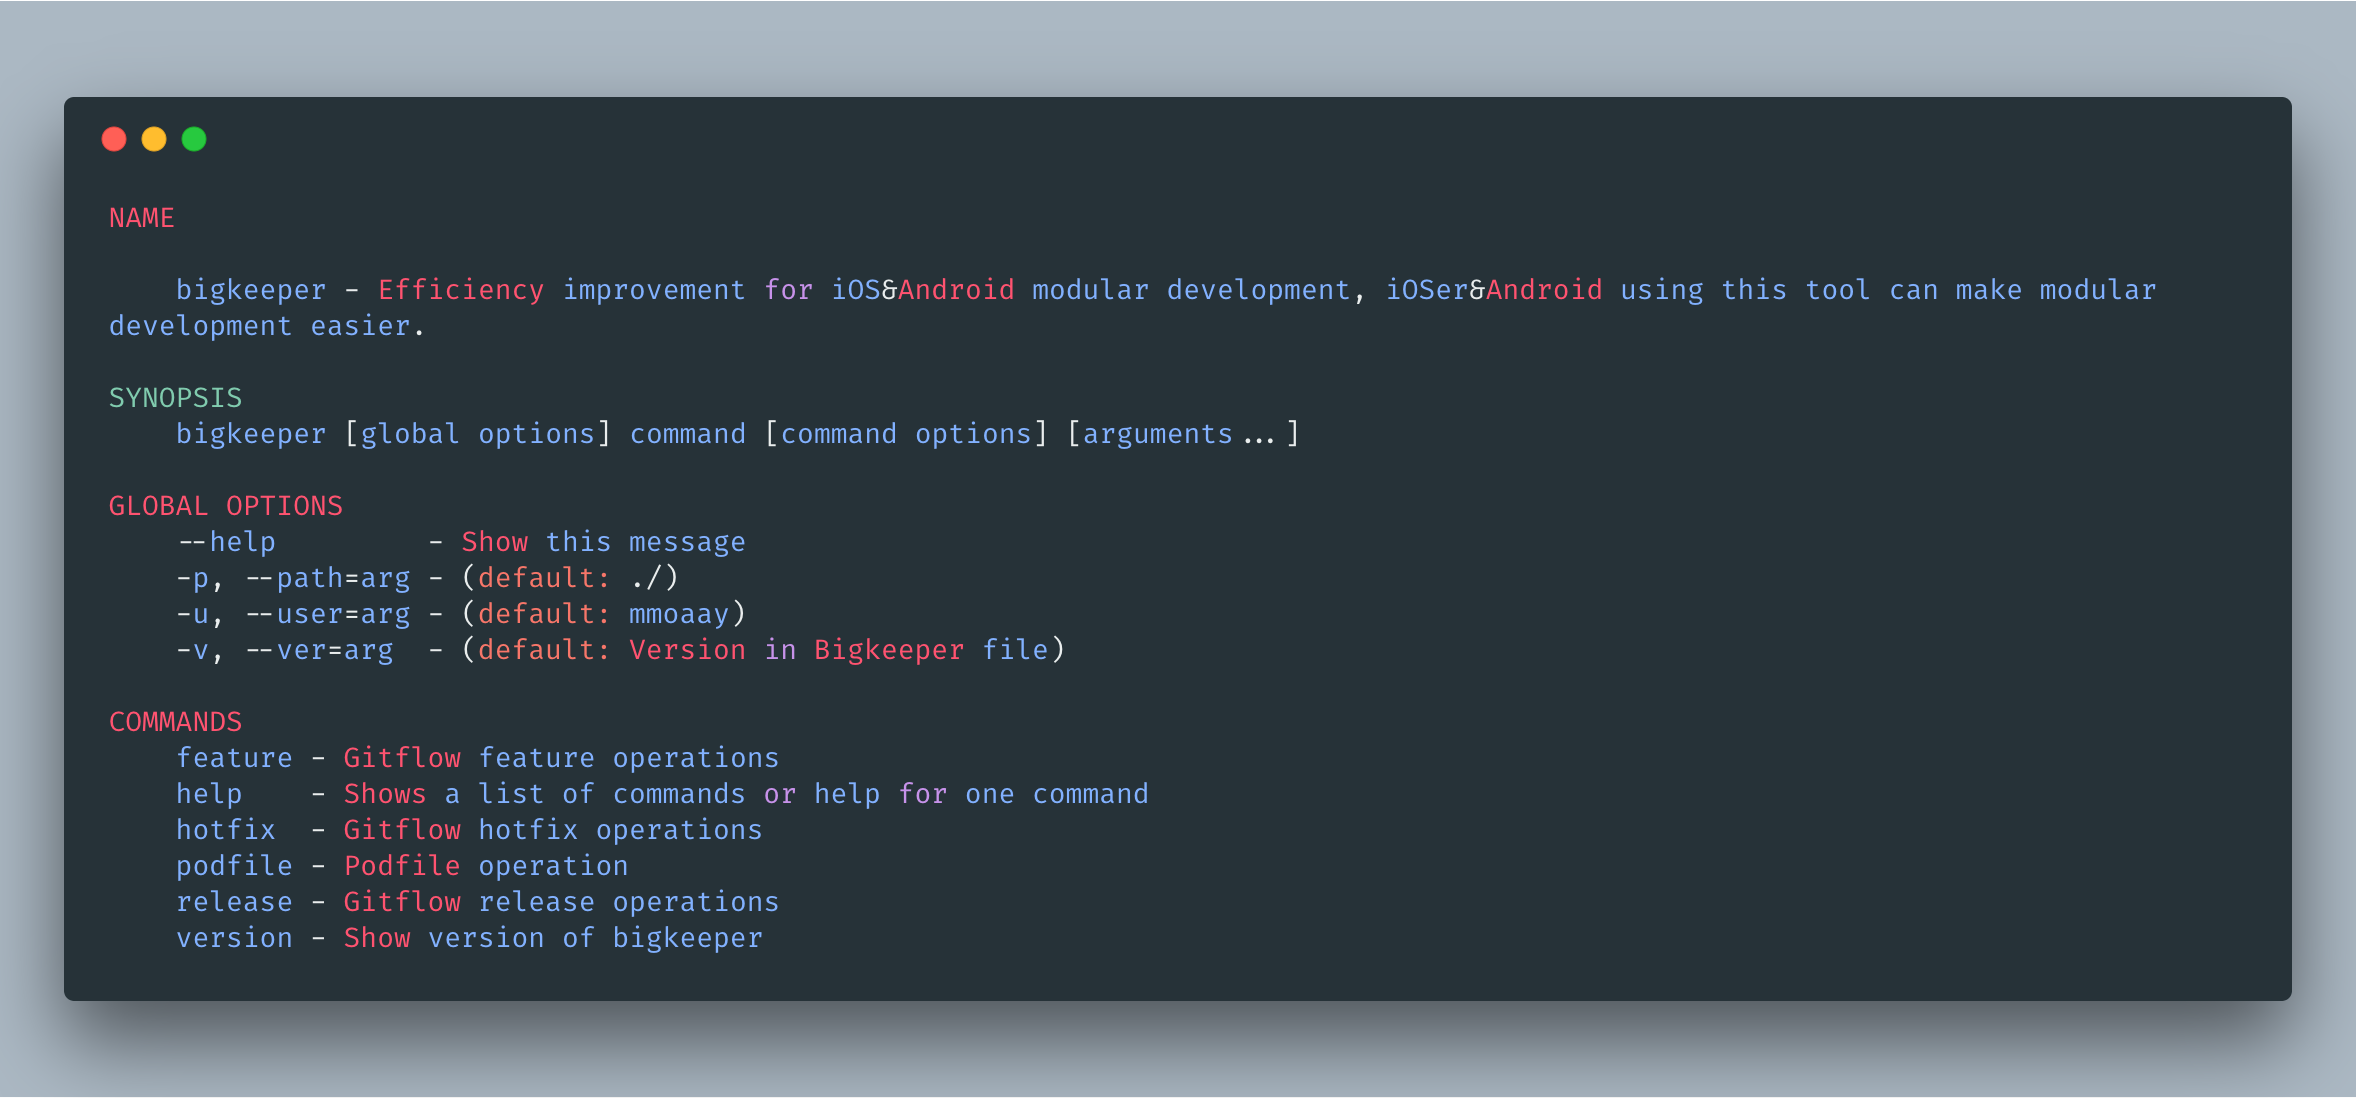
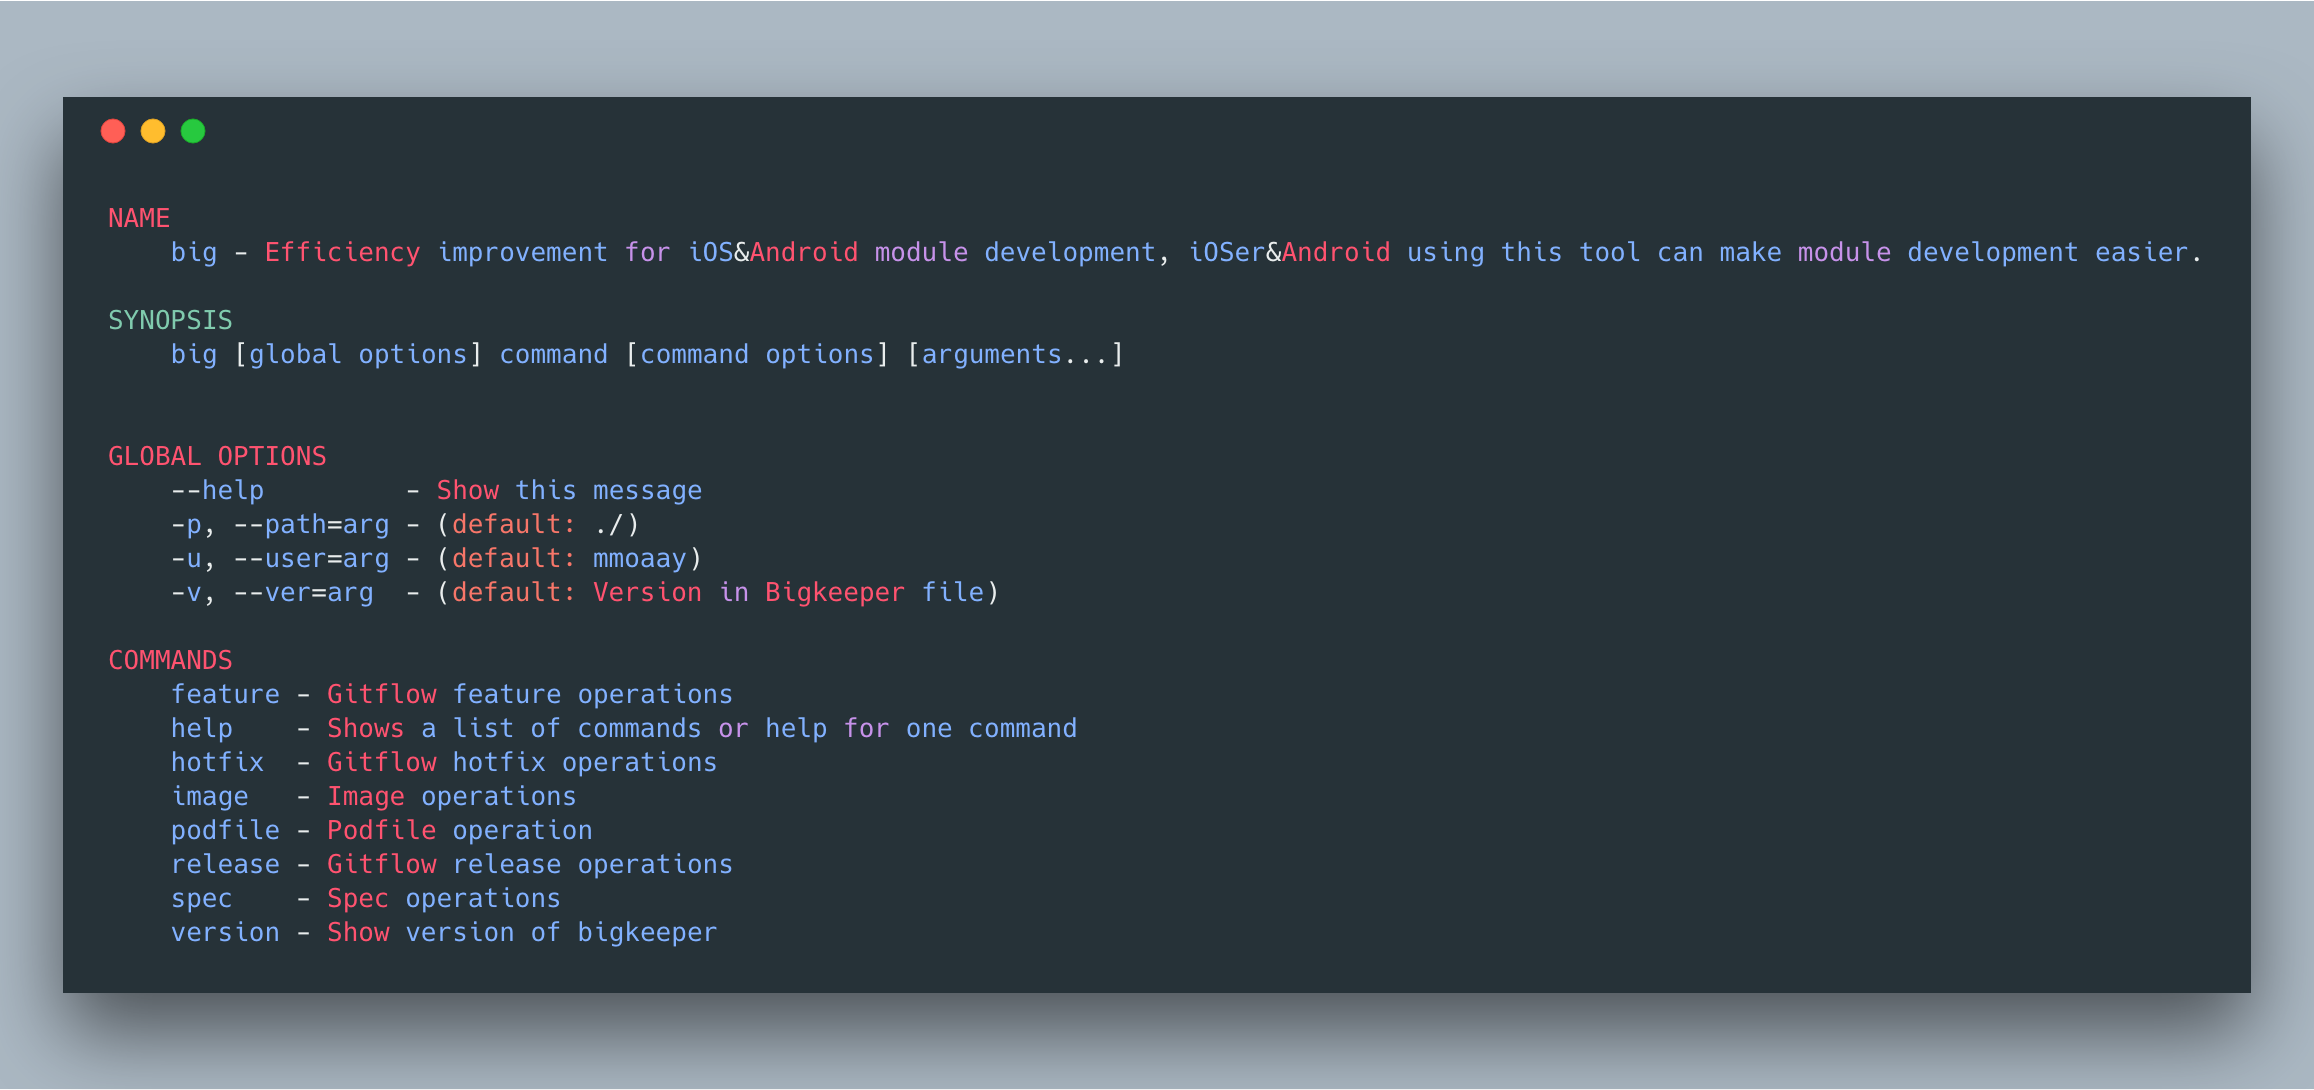
update readme

Changed region(s): [[0.0311, 0.1872, 0.9334, 0.8734], [0.0311, 0.0936, 0.0933, 0.156]]

diff --git a/lib/big_keeper/command/spec/analyze.rb b/lib/big_keeper/command/spec/analyze.rb
@@ -10,15 +10,15 @@ module BigKeeper
       Logger.error("parameter conflict: [--all] | [module_names]")
       return
     end
-    puts "start spec analyze..."
-    puts Time.now.to_s
+    Logger.highlight('Start spec analyze...')
+    Logger.default(Time.now.to_s)
 
     # Parse Bigkeeper file
     # BigkeeperParser.parse("#{path}/Bigkeeper")
     # module_names = BigkeeperParser.module_names
 
     # find modules
-    puts "get all modules..."
+    Logger.highlight('Get all modules...')
     module_names = []
     pod_path = path+"/Pods/"
     dir = Dir.open(pod_path)
@@ -28,15 +28,10 @@ module BigKeeper
       end
     end
 
-    is_legal = true
     for input_moudle_name in find_module_names do
       if !module_names.include?(input_moudle_name)
-        is_legal = false
         Logger.error("["+input_moudle_name+"] not exist.")
       end
-    end
-    if !is_legal
-      return
     end
 
     # setup modules
@@ -54,19 +49,21 @@ module BigKeeper
     end
     # analyze modules spec
 
-    puts "analyze modules "+Time.now.to_s
+    Logger.highlight('Analyze modules...')
+    Logger.default(Time.now.to_s)
     file_index = 0
     for library in module_list do
       if is_all || find_module_names.include?(library.name)
-        puts "analyzing "+library.name
+        Logger.default('Analyzing ' + library.name)
         file_index = file_index + library.file_list.size
         library.spec_dependece_library(module_keyword_map.clone)#(Hash.new(module_keyword_map)).to_hash)
         progress = (file_index*100.0)/file_count
         progress = format("%.02f", progress).to_f
-        puts "progress >>>> "+String(progress)+"% ["+library.name+" done] "
+        Logger.default('progress >>>> ' + String(progress) + '% [' + library.name + ' done] ')
       end
     end
-    puts "analyze complete "+Time.now.to_s
+    Logger.highlight('Analyze complete.')
+    Logger.default(Time.now.to_s)
 
     # log spec info
     for library in module_list do

diff --git a/lib/big_keeper/command/spec.rb b/lib/big_keeper/command/spec.rb
@@ -1,4 +1,5 @@
 require 'big_keeper/command/spec/analyze'
+require 'big_keeper/command/spec/list'
 require 'big_keeper/command/spec/add'
 require 'big_keeper/command/spec/delete'
 require 'big_keeper/command/spec/search'
@@ -6,10 +7,11 @@ require 'big_keeper/command/spec/search'
 module BigKeeper
 
   def self.spec_command
-    desc 'spec command'
+    desc 'Spec operations'
 
     command :spec do |spec|
       spec.switch [:a,:all]
+      spec.desc 'Analyze spec dependency infomation.'
       spec.command :analyze do |analyze|
         analyze.action do |global_options, options, args|
           path = File.expand_path(global_options[:path])
@@ -18,16 +20,33 @@ module BigKeeper
           spec_analyze(path, is_all, module_names)
         end
       end
+
+      spec.desc 'List all the specs.'
+      spec.command :list do | list |
+        list.action do |global_options, options, args|
+          path = File.expand_path(global_options[:path])
+          version = global_options[:ver]
+          user = global_options[:user].gsub(/[^0-9A-Za-z]/, '').downcase
+
+          spec_list(path, user, options)
+        end
+      end
+
+      spec.desc 'Add a spec (Coming soon).'
       spec.command :add do |add|
         add.action do
           spec_add()
         end
       end
+
+      spec.desc 'Delete a spec (Coming soon).'
       spec.command :delete do |delete|
         delete.action do
           spec_delete()
         end
       end
+
+      spec.desc 'Search a spec with name (Coming soon).'
       spec.command :search do |search|
         search.action do
           spec_search()

diff --git a/lib/big_keeper/command/image.rb b/lib/big_keeper/command/image.rb
@@ -1,26 +1,24 @@
 require 'big_resources/util/image/name_analyze_util'
 
 module BigKeeper
-
   def self.image_command
-
-    desc 'Image operation'
+    desc 'Image operations'
     command :image do | c |
       c.desc "Detect duplicate name images."
-        c.command :name do | name |
-          name.action do | global_options, options, args |
-            path = File.expand_path(global_options[:path])
-            BigResources::ImageAnalyzeUtil.get_duplicate_name_file_with_type(path, BigResources::PNG)
-          end
+      c.command :name do | name |
+        name.action do | global_options, options, args |
+          path = File.expand_path(global_options[:path])
+          BigResources::ImageAnalyzeUtil.get_duplicate_name_file_with_type(path, BigResources::PNG)
         end
+      end
 
-        c.desc "Detect duplicate content images."
-        c.command :content do | content |
-          content.action do | global_options, options, args |
-            path = File.expand_path(global_options[:path])
-            BigResources::ImageAnalyzeUtil.get_duplicate_content_file_with_type(path, BigResources::PNG)
-          end
+      c.desc "Detect duplicate content images."
+      c.command :content do | content |
+        content.action do | global_options, options, args |
+          path = File.expand_path(global_options[:path])
+          BigResources::ImageAnalyzeUtil.get_duplicate_content_file_with_type(path, BigResources::PNG)
         end
+      end
     end
   end
 end

diff --git a/lib/big_keeper.rb b/lib/big_keeper.rb
@@ -11,7 +11,6 @@ require 'big_keeper/model/gitflow_type'
 require 'big_keeper/command/feature&hotfix'
 require 'big_keeper/command/release'
 require 'big_keeper/command/pod'
-require 'big_keeper/command/module'
 require 'big_keeper/command/spec'
 require 'big_keeper/command/image'
 
@@ -46,8 +45,6 @@ module BigKeeper
   release_command
 
   pod_command
-
-  module_command
 
   spec_command
 

diff --git a/lib/big_keeper/command/spec/list.rb b/lib/big_keeper/command/spec/list.rb
@@ -2,7 +2,7 @@ require 'logger'
 require 'json'
 
 module BigKeeper
-  def self.module_list(path, user, options)
+  def self.spec_list(path, user, options)
       BigkeeperParser.parse("#{path}/Bigkeeper")
       module_dic = BigkeeperParser.parse_modules
       module_list = Array.new

diff --git a/lib/big_keeper/command/spec/delete.rb b/lib/big_keeper/command/spec/delete.rb
@@ -4,6 +4,6 @@ require 'big_keeper/util/logger'
 
 module BigKeeper
   def self.spec_delete
-    puts "Hello spec_delete"
+    Logger.default('Coming soon.')
   end
 end

diff --git a/lib/big_keeper/command/spec/search.rb b/lib/big_keeper/command/spec/search.rb
@@ -4,6 +4,6 @@ require 'big_keeper/util/logger'
 
 module BigKeeper
   def self.spec_search
-    puts "Hello spec_search"
+    Logger.default('Coming soon.')
   end
 end

diff --git a/lib/big_keeper/command/spec/add.rb b/lib/big_keeper/command/spec/add.rb
@@ -4,6 +4,6 @@ require 'big_keeper/util/logger'
 
 module BigKeeper
   def self.spec_add
-    puts "Hello spec_add"
+    Logger.default('Coming soon.')
   end
 end

diff --git a/docs/zh-CN/FEATURE&HOTFIX.md b/docs/zh-CN/FEATURE&HOTFIX.md
@@ -52,21 +52,23 @@ COMMANDS
 - delete：根据 featue 名删除主项目和业务模块所有相关分支；（PS：慎用，因为会删除本地和远程所有相关分支）
 - list：显示当前的 feature 列表。
 
-## 各个流程的使用场景
+## 各个指令的使用场景
 
-- 如果需要开发新的功能，使用 bigkeeper feature start；
-- 开发功能过程中如果发现某个模块其实不用改动，使用 bigkeeper feature update 来把这个模块从这个 feature 移除；
-- 使用 bigkeeper feature pull 来同步主项目和相关业务模块远端变更；
-- 使用 bigkeeper feature push 来推送主项目和相关业务模块变更到远端；
-- 使用 bigkeeper feature rebase 来 rebase 主项目和业务模块 `develop` 分支到当前 feature；
-- 使用 bigkeeper feature switch 来切换 feature，比如：两个功能并行开发的时候，就可以用这个命令互相切换了；
-- 功能开发完成，需要单独打包提交测试时，使用 bigkeeper feature finish 结束开发；
-- 开始进行集成测试，需要将代码 PR 到 develop 分支时，使用 bigkeeper feature publish；
-- 如果开发过程中突然有新的功能需要紧急开发，直接使用 bigkeeper feature start 进行新功能开发，旧功能未提交的内容我们会保存在 stash 中。
+- 如果需要开发新的功能，使用 big feature start；
+- 开发功能过程中如果发现某个模块其实不用改动，使用 big feature update 来把这个模块从这个 feature 移除；
+- 使用 big feature pull 来同步主项目和相关业务模块远端变更；
+- 使用 big feature push 来推送主项目和相关业务模块变更到远端；
+- 使用 big feature rebase 来 rebase 主项目和业务模块 `develop` 分支到当前 feature；
+- 使用 big feature switch 来切换 feature，比如：两个功能并行开发的时候，就可以用这个命令互相切换了；
+- 功能开发完成，需要单独打包提交测试时，使用 big feature finish 结束开发；
+- 开始进行集成测试，需要将代码 PR 到 develop 分支时，使用 big feature publish；
+- 如果开发过程中突然有新的功能需要紧急开发，直接使用 big feature start 进行新功能开发，旧功能未提交的内容我们会保存在 stash 中。
 
-## feature 的工作区
+## 各个指令执行结束后工程的状态
 
-![](../../resources/keynote/big-keeper-readme-feature/big-keeper-readme-feature.002.jpeg)
+### feature 的工作区
+
+![](../../resources/readme/big-keeper-readme.001.png)
 
 feature 的工作区主要由两部分组成：
 
@@ -79,50 +81,6 @@ feature 的工作区主要由两部分组成：
 - stash 缓存区，当用户需要切换新的 feature 时，对于用户来不及提交的改动，我们会缓存到各个项目的 stash 中，（PS：所以代码突然不见了不要担心，都在 git 的 stash 里面），而当用户切换回某个 feature 时，我们会把和该 feature 分支同名的 stash 恢复回来，从而使用户可以继续开发之前未完成的部分，因为需要通过 feature 的分支名来匹配 stash，而 git stash 又没有提供给 stash 命名的功能，所以我们实现了 [bigstash](https://github.com/BigKeeper/bigstash) 来完成这个功能；
 - git。
 
-## 工作区缓存流程
+> 注：所有的指令我们都做了良好的出错提示和异常恢复机制，当某个步骤报错时，只需要根据提示的错误手动修复问题，重新输入指令，bigkeeper 会继续执行接下来的流程。
 
-![stash 当前工作区](../../resources/keynote/big-keeper-readme-feature/big-keeper-readme-feature.003.jpeg)
-
-## master／develop 分支状态检查流程
-
-![检查 master／develop 分支状态](../../resources/keynote/big-keeper-readme-feature/big-keeper-readme-feature.004.jpeg)
-
-## 切换分支流程
-
-![切换分支](../../resources/keynote/big-keeper-readme-feature/big-keeper-readme-feature.005.jpeg)
-
-## 同步业务模块与主项目分支流程
-
-![同步业务模块与主项目分支](../../resources/keynote/big-keeper-readme-feature/big-keeper-readme-feature.006.jpeg)
-
-## finish 业务模块 feature／hotfix 流程
-
-![finish 业务模块 feature／hotfix](../../resources/keynote/big-keeper-readme-feature/big-keeper-readme-feature.007.jpeg)
-
-## 从 feature／hotfix 移除模块流程
-
-![从 feature／hotfix 移除模块](../../resources/keynote/big-keeper-readme-feature/big-keeper-readme-feature.008.jpeg)
-
-## feature start 流程
-
-![start](../../resources/keynote/big-keeper-readme-feature/big-keeper-readme-feature.009.jpeg)
-
-## feature finish 流程
-
-![finish](../../resources/keynote/big-keeper-readme-feature/big-keeper-readme-feature.010.jpeg)
-
-## feature switch 流程
-
-![switch](../../resources/keynote/big-keeper-readme-feature/big-keeper-readme-feature.011.jpeg)
-
-## feature update 流程
-
-![update](../../resources/keynote/big-keeper-readme-feature/big-keeper-readme-feature.012.jpeg)
-
-## feature pull 流程
-
-![pull](../../resources/keynote/big-keeper-readme-feature/big-keeper-readme-feature.013.jpeg)
-
-## feature push 流程
-
-![push](../../resources/keynote/big-keeper-readme-feature/big-keeper-readme-feature.014.jpeg)
+### big feature start

diff --git a/docs/zh-CN/BIGKEEPER_FILE.md b/docs/zh-CN/BIGKEEPER_FILE.md
@@ -25,11 +25,33 @@ home 'BigKeeperMain', :git => 'git@github.com:BigKeeper/BigKeeperMain.git', :pul
 - 主项目的 git 远程仓库地址；
 - 主项目的 pull request / merge request 页面地址，完成某个 feature / hotfix 时，会自动打开这个页面，让开发者提交 pull request / merge request。
 
+## 配置模块源
+
+```
+source 'git@git.elenet.me:LPD-iOS/LPDSpecs.git, elenet-lpdspecs' do
+  modules do
+    ...
+  end
+end
+
+source ...
+  ...
+end
+```
+
+考虑到我们的业务模块可能属于不同的源，所以配置业务模块之前，要先在最外层配置源信息：
+
+- 源 git 地址；
+- 源名称。
+
+配置这个主要是方便对我们关心的源执行 `pod repo update`，从而节省命令执行的时间。
+
 ## 配置业务模块
 
 ```
 modules do
   mod 'BigKeeperModular', :git => 'git@github.com:BigKeeper/BigKeeperModular.git', :pulls => 'https://github.com/BigKeeper/BigKeeperModular/pulls'
+  mod ...
 end
 ```
 
